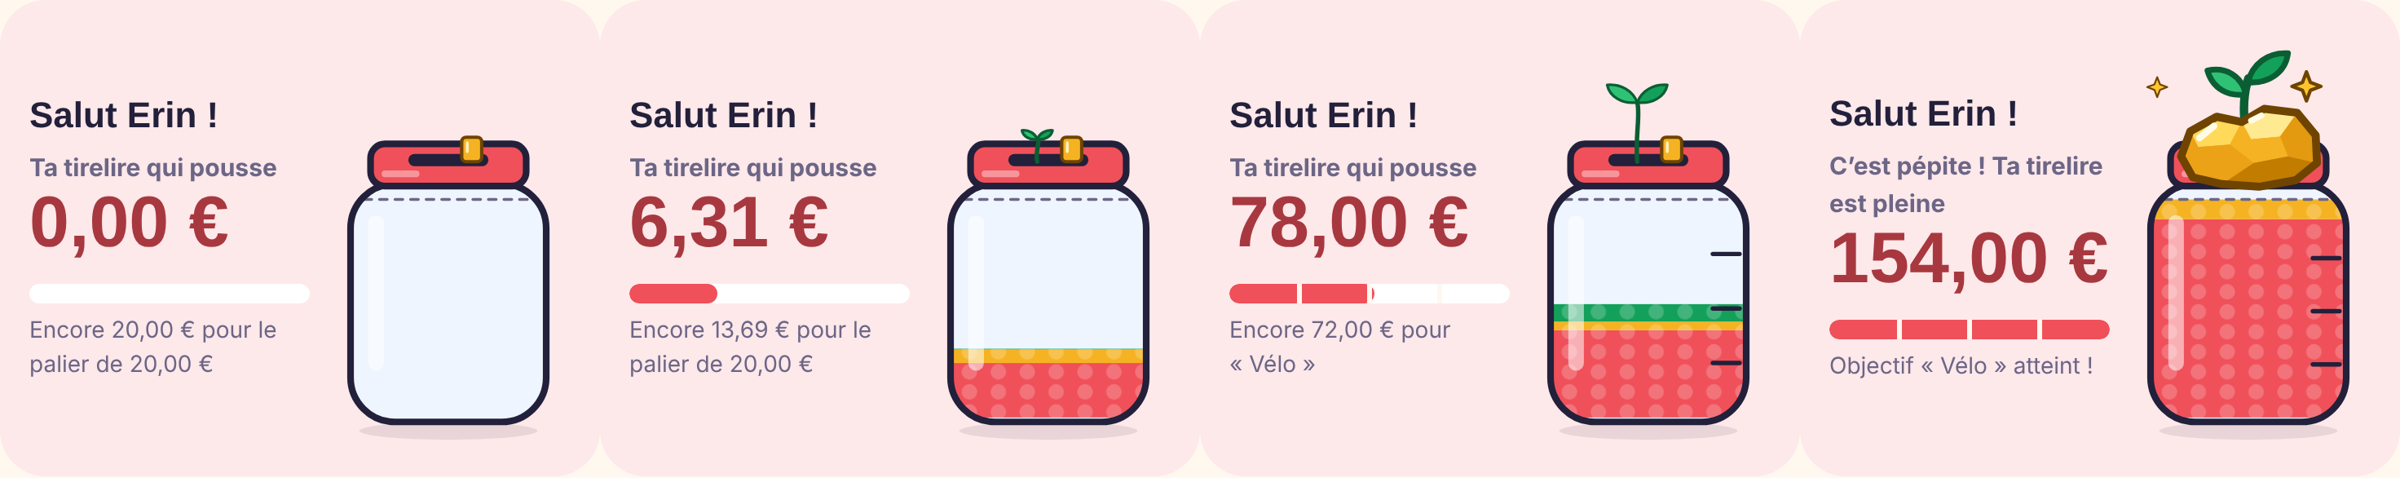
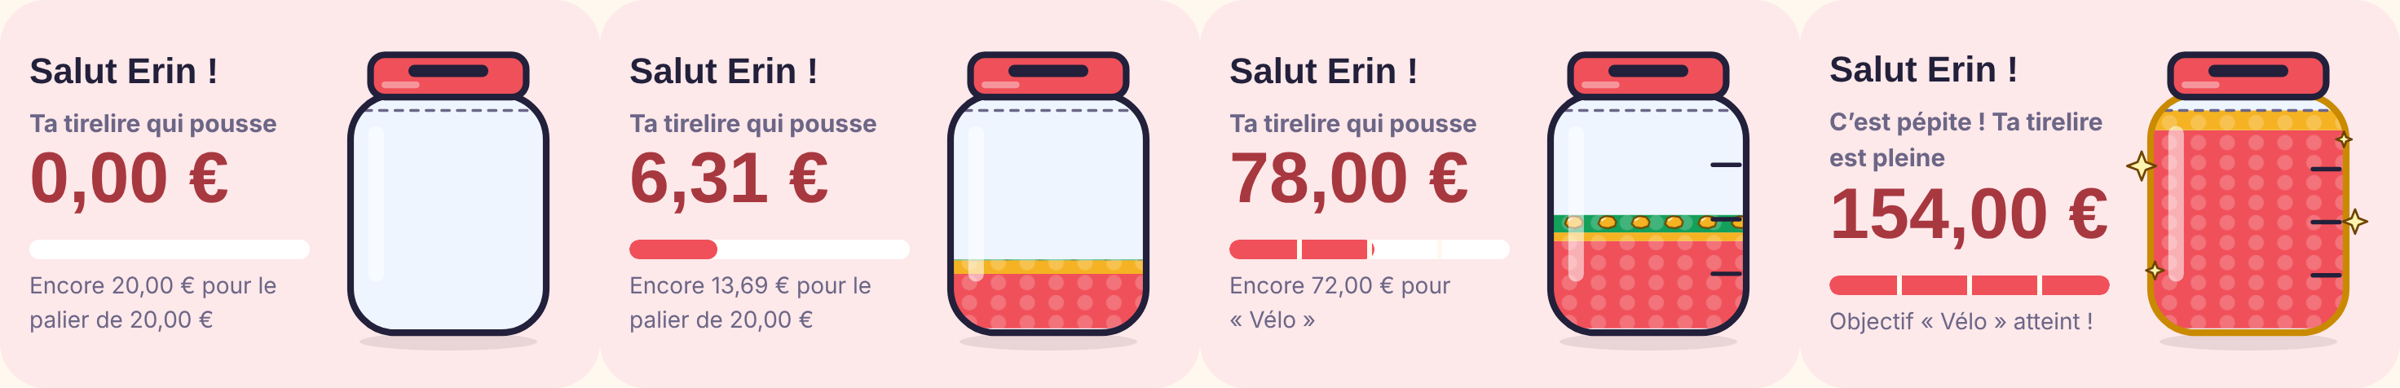
Tirelire : couvercle épuré avec fente, gains dessinés en pépites, contour doré et étincelles à l'objectif
Claude-Session: https://claude.ai/code/session_01FnvJs2a6yw4f7tqEzZ4wjv

diff --git a/app.js b/app.js
@@ -180,31 +180,25 @@ function jar(t, g) {
   const pos = t.own + t.bonus + Math.max(0, t.gains), k = pos > 0 ? Math.max(0, t.total) / pos : 0, H = 196;
   const h = [t.own * k / cap * H, t.bonus * k / cap * H, Math.max(0, t.gains) * k / cap * H];
   const fills = ['var(--kid)', 'var(--gold)', 'var(--grow)'];
-  let y = 266, layers = '';
-  h.forEach((v, i) => { y -= v; layers += `<rect x="16" y="${y.toFixed(1)}" width="188" height="${v.toFixed(1)}" style="fill:${fills[i]}"/>`; });
+  let y = 266, layers = '', gy = 266;
+  h.forEach((v, i) => { y -= v; if (i === 2) gy = y; layers += `<rect x="16" y="${y.toFixed(1)}" width="188" height="${v.toFixed(1)}" style="fill:${fills[i]}"/>`; });
+  const yb = y + h[2]; // bas de la couche « gagné tout seul »
   const reached = !!g && t.total >= g.budget;
-  // La pousse sort de la fente et grandit avec ce que l'argent a gagné tout seul.
-  const gr = t.total > 0 ? Math.max(0, t.gains) / t.total : 0, grow = Math.min(1, gr / 0.2);
-  const sh = 24 + grow * 46, ls = 0.5 + grow * 0.7, sx = 100, sy = 36, top = sy - sh;
-  const leaf = (dir) => `<path transform="translate(${sx} ${top + 6}) scale(${(dir * ls).toFixed(2)} ${ls.toFixed(2)})" d="M0 0C-4-10-14-16-26-15-24-5-13 2 0 0Z" fill="${dir < 0 ? '#13a05a' : '#2fc275'}" stroke="#0b5e33" stroke-width="${(2.4 / ls).toFixed(2)}" stroke-linejoin="round"/>`;
-  const sprout = t.total > 0 ? `<path d="M${sx} ${sy}C${sx - 2} ${sy - sh * 0.4} ${sx + 3} ${sy - sh * 0.7} ${sx} ${top + 6}" stroke="#0b5e33" stroke-width="4" stroke-linecap="round" fill="none"/>${leaf(1)}${leaf(-1)}` : '';
-  const nug = reached ? LOGO.replace('<svg class="logo" viewBox="0 0 64 64" aria-hidden="true">', '<svg x="34" y="-78" width="152" height="152" viewBox="0 0 64 64">')
-    + '<path d="M28 -40l2.5 6.5 6.5 2.5-6.5 2.5-2.5 6.5-2.5-6.5-6.5-2.5 6.5-2.5z" fill="#ffc531" stroke="#6e4400" stroke-width="1.6" stroke-linejoin="round"/>' : '';
-  const svg = `<svg class="jar" viewBox="0 -80 220 370" role="img" aria-label="${reached ? 'Tirelire pleine : c’est pépite !' : `Tirelire remplie à ${Math.round((266 - y) / H * 100)} %`}">
+  const star = (x, yy, r) => `<path d="M${x} ${yy - r}l${r * 0.28} ${r * 0.72} ${r * 0.72} ${r * 0.28}-${r * 0.72} ${r * 0.28}-${r * 0.28} ${r * 0.72}-${r * 0.28}-${r * 0.72}-${r * 0.72}-${r * 0.28} ${r * 0.72}-${r * 0.28}z" fill="#fff3b0" stroke="#6e4400" stroke-width="2" stroke-linejoin="round"/>`;
+  const svg = `<svg class="jar" viewBox="0 0 220 290" role="img" aria-label="${reached ? 'Tirelire pleine : c’est pépite !' : `Tirelire remplie à ${Math.round((266 - y) / H * 100)} %`}">
 <defs><clipPath id="jc"><rect x="22" y="56" width="176" height="214" rx="40"/></clipPath>
-<pattern id="pc" width="26" height="18" patternUnits="userSpaceOnUse"><circle cx="13" cy="9" r="7" fill="#fff" fill-opacity=".2"/></pattern></defs>
+<pattern id="pc" width="26" height="18" patternUnits="userSpaceOnUse"><circle cx="13" cy="9" r="7" fill="#fff" fill-opacity=".2"/></pattern>
+<pattern id="pn" width="30" height="20" patternUnits="userSpaceOnUse"><path d="M5 12 7 7 12 5 18 6 21 10 20 14 14 16 8 15z" fill="#f5b323" stroke="#6e4400" stroke-width="1.6" stroke-linejoin="round"/><path d="M8 9 11 7" stroke="#fff6cf" stroke-width="1.4" stroke-linecap="round"/></pattern></defs>
 <ellipse cx="110" cy="278" rx="80" ry="8" fill="#000" fill-opacity=".08"/>
 <rect x="22" y="56" width="176" height="214" rx="40" style="fill:var(--glass)"/>
-<g clip-path="url(#jc)">${layers}<rect x="16" y="${y.toFixed(1)}" width="188" height="${(266 - y).toFixed(1)}" fill="url(#pc)"/></g>
+<g clip-path="url(#jc)">${layers}<rect x="16" y="${gy.toFixed(1)}" width="188" height="${(266 - gy).toFixed(1)}" fill="url(#pc)"/>${h[2] > 0.5 ? `<rect x="16" y="${y.toFixed(1)}" width="188" height="${h[2].toFixed(1)}" fill="url(#pn)"/>` : ''}</g>
 <line x1="34" x2="186" y1="70" y2="70" stroke-dasharray="7 7" style="stroke:var(--soft)" stroke-width="2.5" stroke-linecap="round"/>
 <rect x="38" y="84" width="14" height="140" rx="7" fill="#fff" fill-opacity=".55"/>${g ? [0.25, 0.5, 0.75].map(m => { const yy = (266 - m * g.budget / cap * H).toFixed(1); return `<line x1="168" x2="192" y1="${yy}" y2="${yy}" style="stroke:var(--ink)" stroke-width="4" stroke-linecap="round"/>`; }).join('') : ''}
-<rect x="22" y="56" width="176" height="214" rx="40" fill="none" style="stroke:var(--ink)" stroke-width="6"/>
+<rect x="22" y="56" width="176" height="214" rx="40" fill="none" style="stroke:${reached ? '#c98a00' : 'var(--ink)'}" stroke-width="6"/>
 <rect x="40" y="20" width="140" height="38" rx="13" style="fill:var(--kid);stroke:var(--ink)" stroke-width="6"/>
 <rect x="74" y="29" width="72" height="11" rx="5.5" style="fill:var(--ink)"/>
-${reached ? '' : sprout}
-${reached ? '' : `<rect x="122" y="14" width="18" height="22" rx="4" fill="#f5b323" stroke="#6e4400" stroke-width="3"/><path d="M127 19v8" stroke="#fff3c4" stroke-width="2.5" stroke-linecap="round"/>`}
 <rect x="50" y="44" width="34" height="6" rx="3" fill="#fff" fill-opacity=".4"/>
-${nug}</svg>`;
+${reached ? star(14, 120, 13) + star(206, 170, 11) + star(196, 96, 7) + star(26, 214, 8) : ''}</svg>`;
   return { cap, svg };
 }
 

diff --git a/sw.js b/sw.js
@@ -1,5 +1,5 @@
 // Cache de l'application pour un démarrage rapide et hors ligne. Les données passent par Firebase.
-const CACHE = 'pepite-v28';
+const CACHE = 'pepite-v29';
 const SHELL = ['./', './index.html', './app.js', './app.css', './config.js', './vendor/idiomorph.esm.js', './manifest.webmanifest', './icons/icon-192.png', './icons/icon-512.png'];
 self.addEventListener('install', e => { e.waitUntil(caches.open(CACHE).then(c => c.addAll(SHELL)).then(() => self.skipWaiting())); });
 self.addEventListener('activate', e => {
